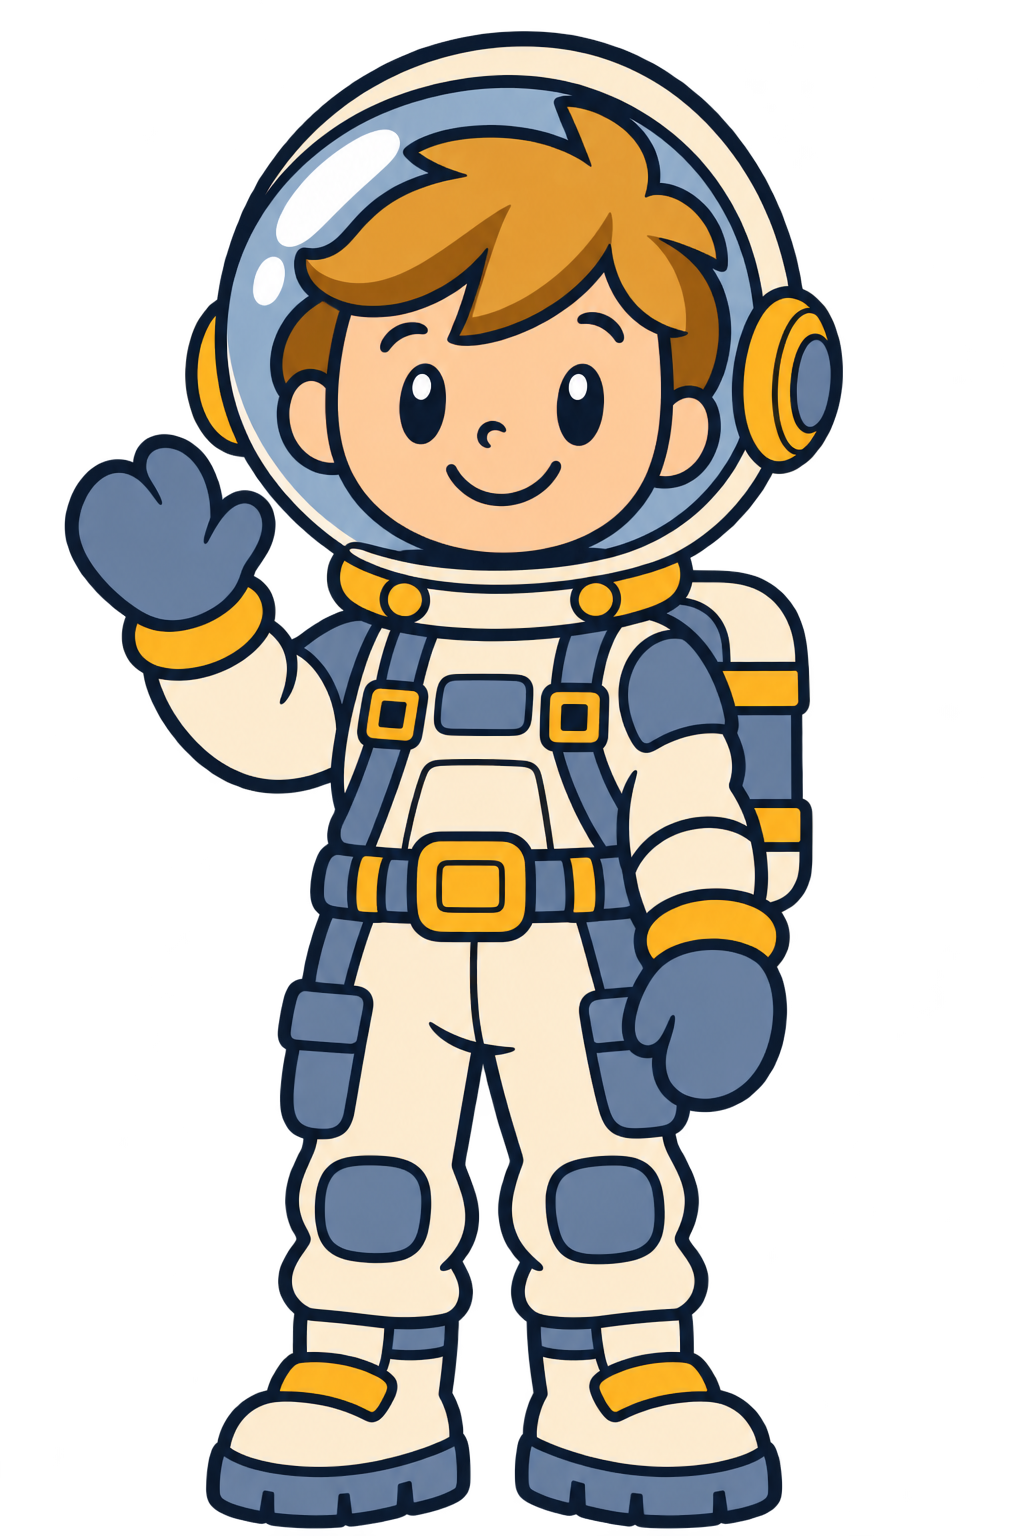
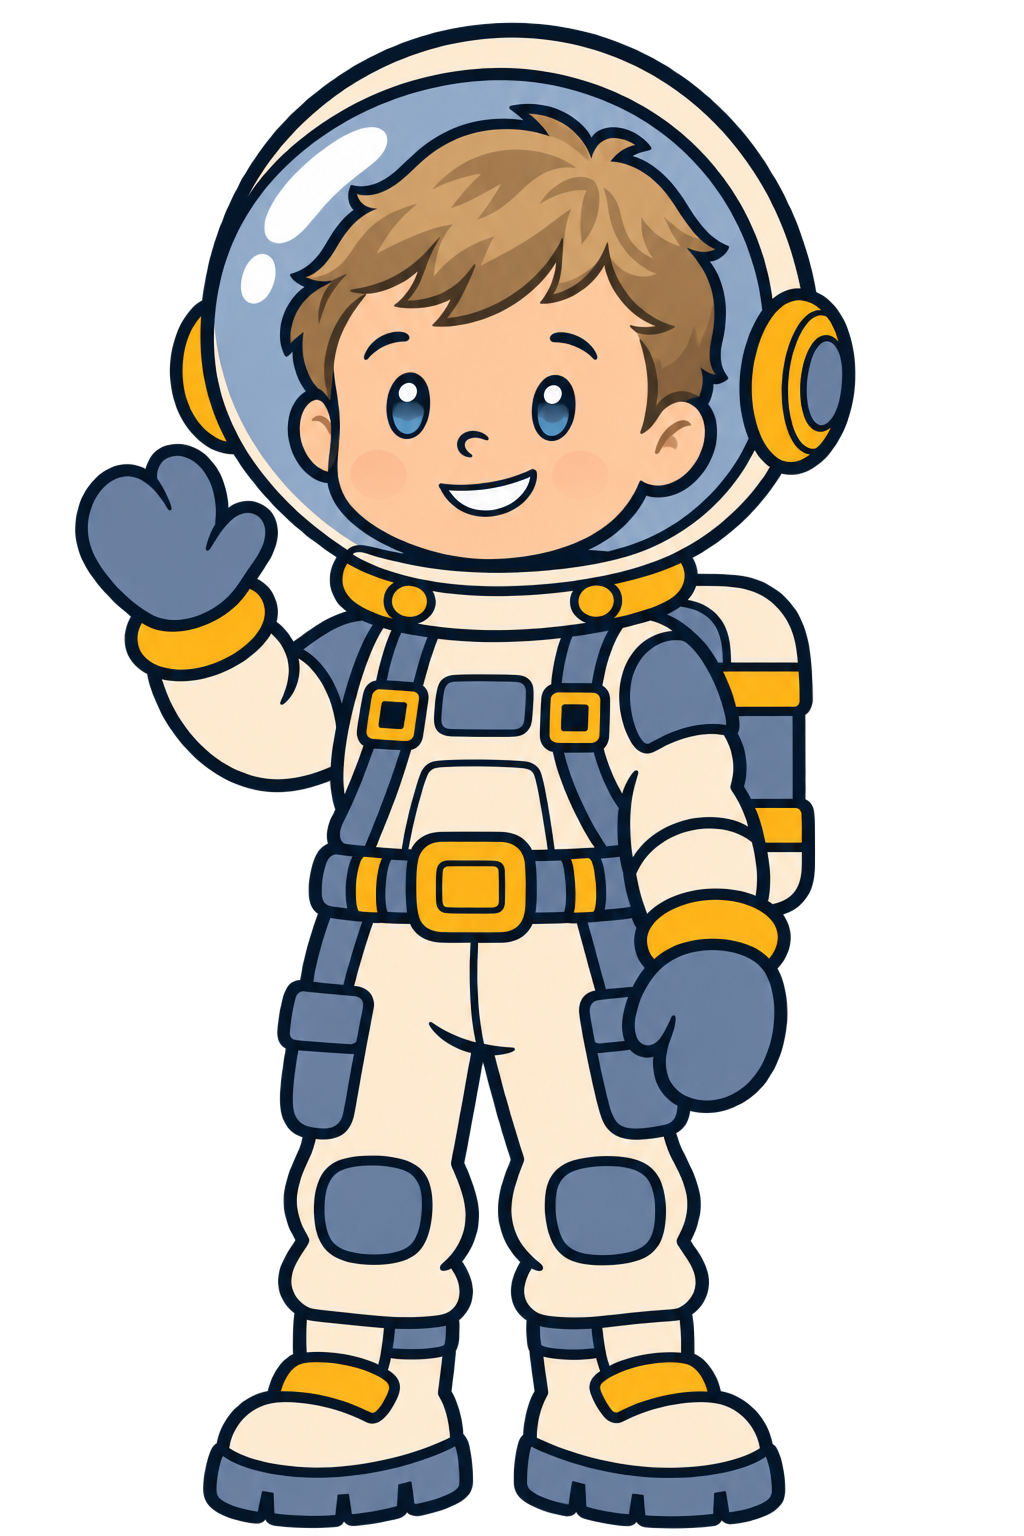
Refine cartoon astronaut hair, eyes, and smile

diff --git a/index.html b/index.html
@@ -6,12 +6,12 @@
   <meta name="description" content="Launch a little rocket, earn rocket credits, and build your way to outer space. A cozy launch-and-upgrade game.">
   <title>Rocket Away — One little launch at a time</title>
   <link rel="icon" href="./favicon.svg" type="image/svg+xml"><link rel="stylesheet" href="./style.css?v=research-clarity">
-  <script type="module" src="./game.js?v=research-clarity"></script>
+  <script type="module" src="./game.js?v=pilot-cartoon-2"></script>
 </head>
 <body>
 <main class="app" data-view="expedition" data-mode="expedition" data-hub="true">
   <header class="header">
-    <a class="wordmark" href="./" aria-label="Rocket Away home"><span class="pilot-portrait" aria-hidden="true"><img src="./assets/astronaut-cartoon.png" alt="" width="1024" height="1536"></span>rocket<span>away</span><sup>✦</sup></a>
+    <a class="wordmark" href="./" aria-label="Rocket Away home"><span class="pilot-portrait" aria-hidden="true"><img src="./assets/astronaut-cartoon.png?v=2" alt="" width="1024" height="1536"></span>rocket<span>away</span><sup>✦</sup></a>
     <div class="wallet" aria-label="Rocket credits"><span>CREDITS</span><strong><i>✦</i> <span id="credits">0</span></strong></div>
     <button id="game-menu" class="icon-button" aria-label="Open game menu" aria-haspopup="dialog">☰</button>
   </header>
@@ -112,7 +112,7 @@
   <dialog id="travel-dialog" aria-labelledby="travel-title" aria-describedby="travel-caption">
     <div class="eyebrow">ROAD TO TAU CETI</div><h2 id="travel-title"></h2>
     <div id="travel-scene" aria-hidden="true"></div>
-    <div class="travel-crew"><img class="travel-astronaut" src="./assets/astronaut-cartoon.png" alt="A smiling cartoon astronaut waving" width="1024" height="1536"><p id="travel-caption"></p></div><button id="travel-skip" class="small-button">Skip travel →</button>
+    <div class="travel-crew"><img class="travel-astronaut" src="./assets/astronaut-cartoon.png?v=2" alt="A smiling cartoon astronaut waving" width="1024" height="1536"><p id="travel-caption"></p></div><button id="travel-skip" class="small-button">Skip travel →</button>
   </dialog>
   <div id="announcement" class="sr-only" role="status" aria-live="polite"></div>
 </main>

diff --git a/game.js b/game.js
@@ -11,7 +11,7 @@ import { createResearchUI, researchButtonState } from './research-ui.js?v=resear
 const $ = id => document.getElementById(id);
 const canvas = $('game'), ctx = canvas.getContext('2d');
 const astronautArt = new Image();
-astronautArt.src = new URL('./assets/astronaut-cartoon.png', import.meta.url).href;
+astronautArt.src = new URL('./assets/astronaut-cartoon.png?v=2', import.meta.url).href;
 const reducedMotion = matchMedia('(prefers-reduced-motion: reduce)').matches;
 let currentScreen = 'workshop';
 let program = newProgram(), mode = 'workshop', flight = null, width = 0, height = 0;
